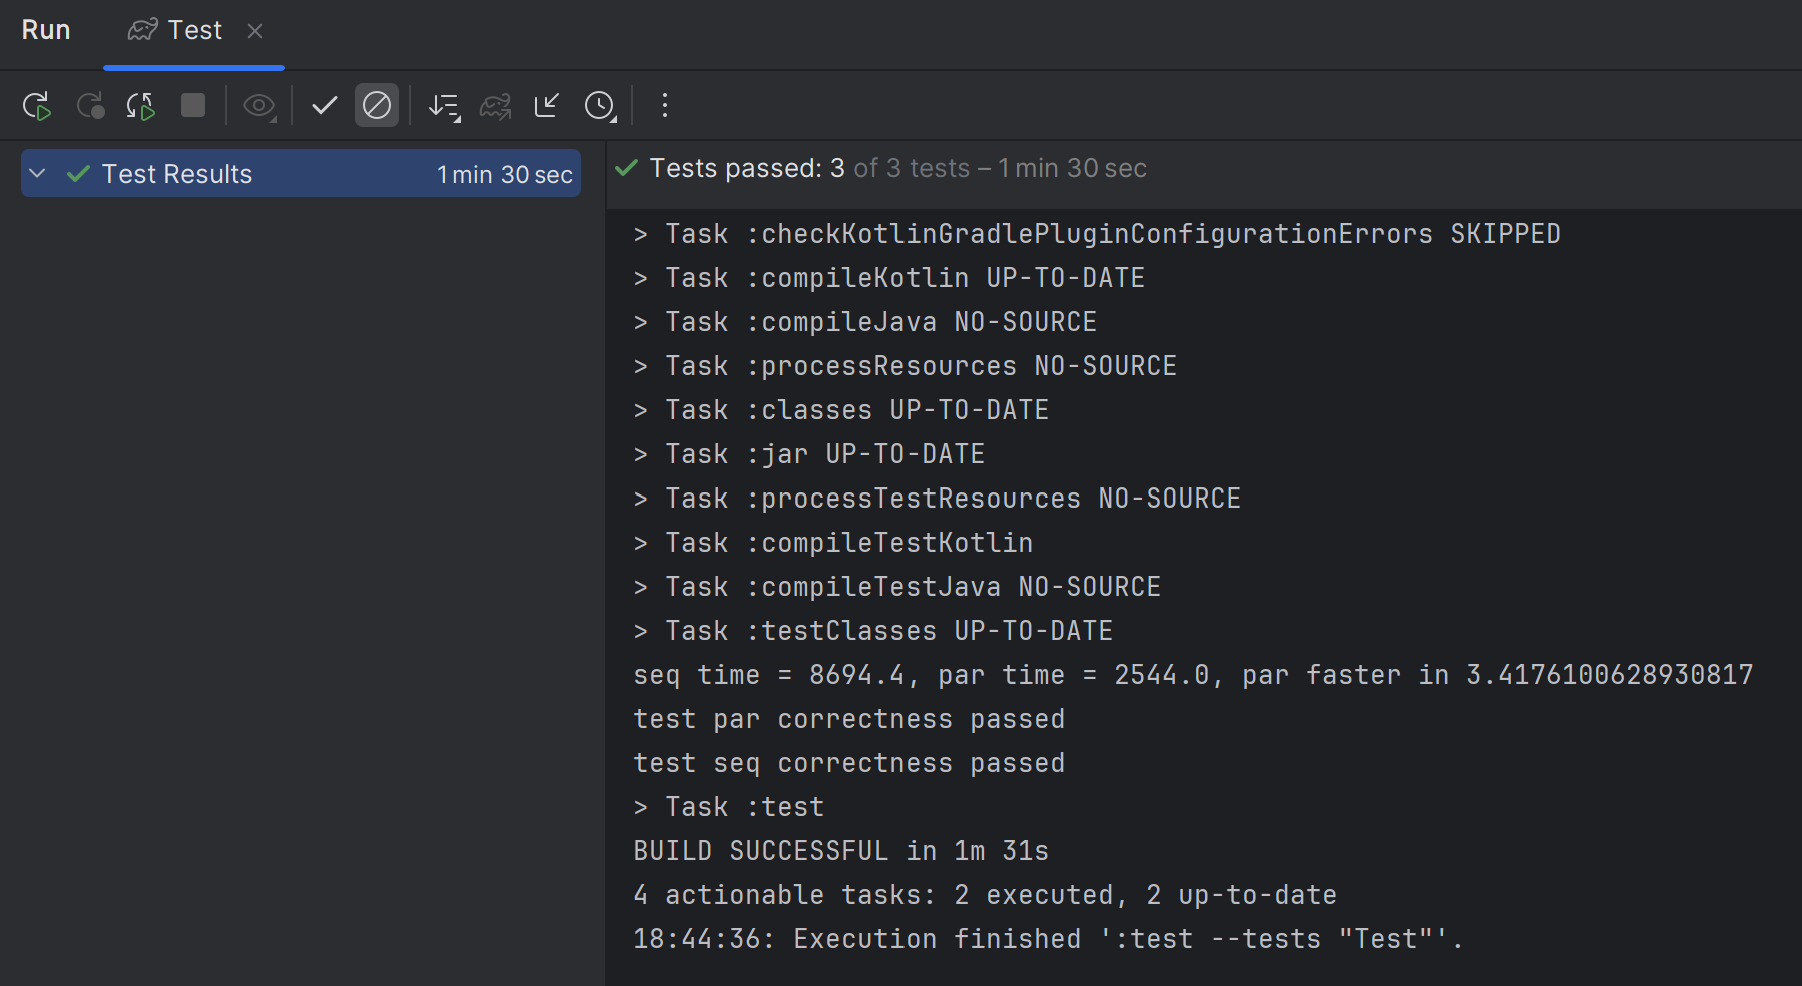
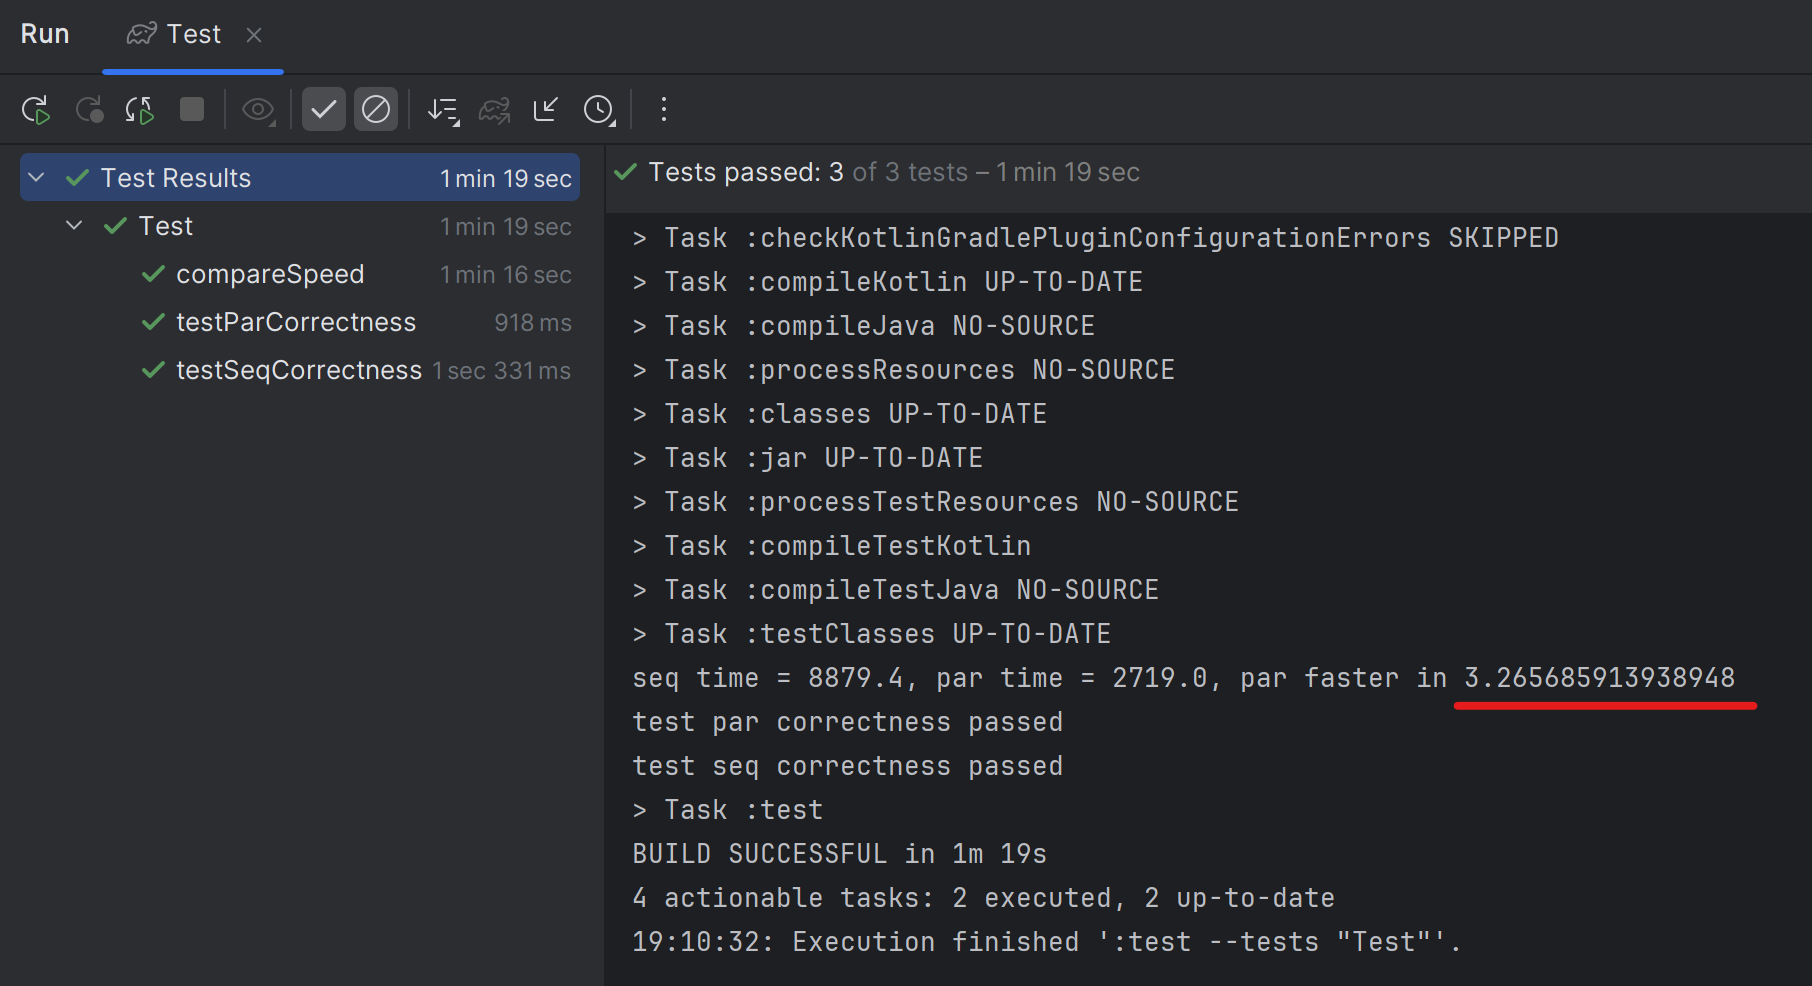
add docker & fix tests

diff --git a/src/test/kotlin/Test.kt b/src/test/kotlin/Test.kt
@@ -2,22 +2,26 @@ import io.github.tolisso.par
 import io.github.tolisso.seq
 import kotlinx.coroutines.*
 import org.junit.jupiter.api.Test
+import kotlin.random.Random
 import kotlin.system.measureTimeMillis
 
 const val SMALL_ARRAY_SIZE = 1_000_000
 const val ARRAY_SIZE = 100_000_000
 
 class Test {
+
+    private fun randArr(size: Int) =
+        generateSequence { Random.nextInt() }.take(size).toList().toIntArray()
+
     @Test
     fun testSeqCorrectness() {
         fun test() {
-            val arrSorted = (0 until SMALL_ARRAY_SIZE).toList().toIntArray()
-            val arr = arrSorted.copyOf()
+            val arrOriginal = randArr(SMALL_ARRAY_SIZE)
+            val arr = arrOriginal.copyOf()
 
-            arr.shuffle()
             seq(arr, 0, SMALL_ARRAY_SIZE - 1)
 
-            assert(arr.contentEquals(arrSorted))
+            assert(arr.contentEquals(arrOriginal.sortedArray()))
         }
 
         repeat(10) {
@@ -29,15 +33,14 @@ class Test {
     @Test
     fun testParCorrectness() {
         fun test() {
-            val arrSorted = (0 until SMALL_ARRAY_SIZE).toList().toIntArray()
-            val arr = arrSorted.copyOf()
+            val arrOriginal = randArr(SMALL_ARRAY_SIZE)
+            val arr = arrOriginal.copyOf()
 
-            arr.shuffle()
             runBlocking {
                 par(arr, 0, SMALL_ARRAY_SIZE - 1)
             }
 
-            assert(arr.contentEquals(arrSorted))
+            assert(arr.contentEquals(arrOriginal.sortedArray()))
         }
 
         repeat(10) {
@@ -49,8 +52,7 @@ class Test {
     @Test
     fun compareSpeed() {
         fun testPar(): Long {
-            val arr = (0 until ARRAY_SIZE).toList().toIntArray()
-            arr.shuffle()
+            val arr = randArr(ARRAY_SIZE)
 
             return measureTimeMillis {
                 runBlocking {
@@ -60,8 +62,7 @@ class Test {
         }
 
         fun testSeq(): Long {
-            val arr = (0 until ARRAY_SIZE).toList().toIntArray()
-            arr.shuffle()
+            val arr = randArr(ARRAY_SIZE)
 
             return measureTimeMillis {
                 seq(arr, 0, ARRAY_SIZE - 1)

diff --git a/README.md b/README.md
@@ -1,13 +1,18 @@
 # Практическое задание №1
 ## Малько Егор Александрович
 
+Запустить тесты можно через идею или командную строку с docker:
+```
+docker build -t gradle-test-image .
+docker run --rm -it gradle-test-image gradle test
+```
+У меня тесты проходят за 3 минуты
+
 Код `seq` и `par` расположен в [Main.kt](src/main/kotlin/Main.kt)
 
-Тесты на 
+Тесты на расположены в [Test.kt](src/test/kotlin/Test.kt)
 1. корректность (`testSeqCorrectness` и `testParCorrectness`)
 2. сравнение время исполнения (`compareSpeed`)
-
-расположены в [Test.kt](src/test/kotlin/Test.kt)
 
 ## Код сортировки
 
@@ -35,19 +40,18 @@
 ## Тесты
 
 В тестах `testSeqCorrectness` и `testParCorrectness` проверяется корректность алгоритмов. 
-- Создается изначальный массив размера 10^6 (элементы от 0 до 10^6)
-- В копии массива случайным образом переставляются элементы 
-- После чего копия сортируется с помощью `seq` или `par` соответственно
-- Проверяется что изначальный массив равен копии (те же элементы на тех же местах)
+- Создается изначальный массив размера 10^6 из случайных элементов и его копия
+- Проверяется что изначальный массив отсортированный стандартным методом kotlin, 
+равен копии отсортированной с помощью `seq` или `par` соответственно
+- повторяется 10 раз
 
 В тесте `compareSpeed`
-- Создается изначальный массив размера 10^8 (элементы от 0 до 10^8)
-- Его элементы случайно переставляются
+- Создается изначальный массив размера 10^8 из случайных элементов
 - Сортируем массив замеряя время
 - 5 раз повторяем сортируя через `seq` и находим среднее время
 - 5 раз повторяем сортируя через `par` и находим среднее время
 - проверяем что среднее время `par` быстрее `seq` как минимум в 3 раза
 
-В моем случае получилось быстрее в 3.4 раза
+В моем случае получилось быстрее в 3.26 раза
 
 ![Результат](img.png)
